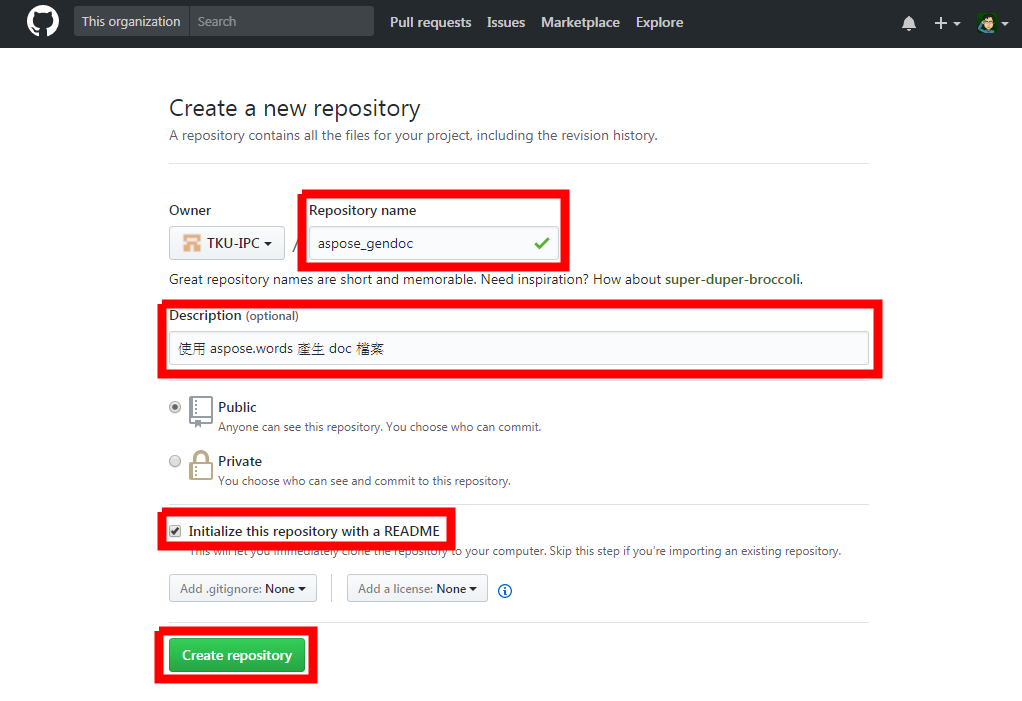
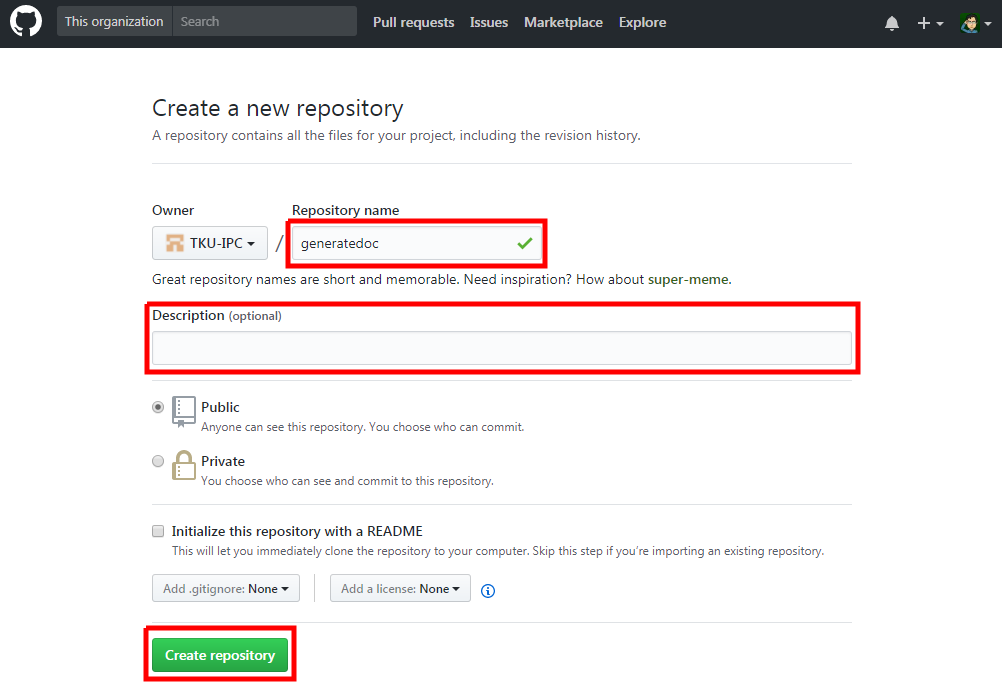
Creates assets/1-1-5.png
Auto commit by GitBook Editor

diff --git a/chapter1/ch1-1.md b/chapter1/ch1-1.md
@@ -10,7 +10,7 @@
 
 然後點選 "New Repository"，準備建立 Repository。![](/assets/1-1-3.png)
 
-輸入 "Repository name"，如有需要，請輸入 "Description"，對此 Repository 進行說明。為了產生一個完全空的 Respository，**請不要點選 "Initialize this repository with a README"**。確定後點選 "Create Repository"。
+輸入 "Repository name"，如有需要，請輸入 "Description"，對此 Repository 進行說明。為了產生一個完全空的 Respository，**請不要點選 "Initialize this repository with a README"**。確定後點選 "Create Repository"。![](/assets/1-1-4.png)
 
-![](/assets/1-1-4.png)已順利的在 GitHub 的 TKU_IPC_ 團隊中建立了一個名為 "aspose\_gendoc" 的 Repository。
+已順利的在 GitHub 的 TKU_IPC_ 團隊中建立了一個名為 "generatedoc" 的 Repository。![](/assets/1-1-5.png)
 
